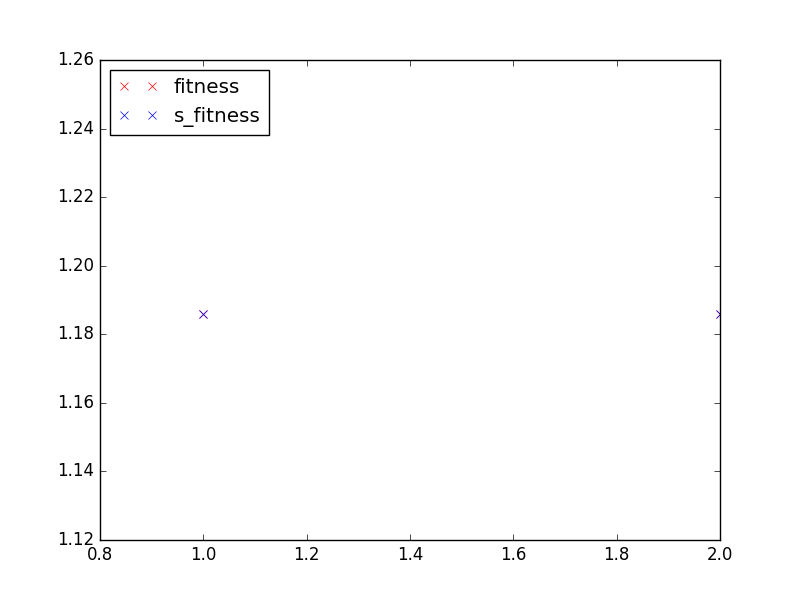
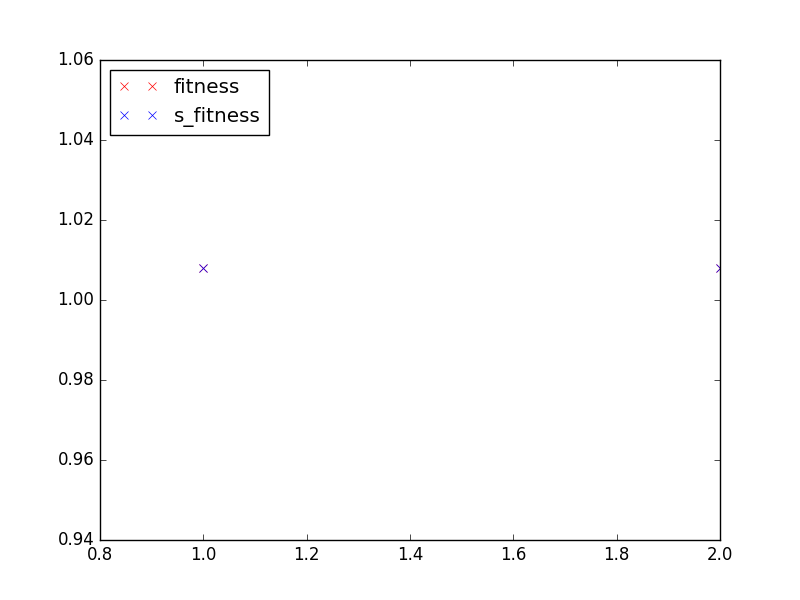
DSGA 0.1 , not tested

diff --git a/code/solution.py b/code/solution.py
@@ -7,7 +7,7 @@ import os
 import sys
 import collections
 import math
-
+import random
 
 
 
@@ -16,6 +16,9 @@ class Solution():
     name_id = 0
     _all = []
     seed_list = []
+    conserved_seed_list = []
+    top_solution_list = []
+    converged_solution_set = set()
     max_distance = 2
 
     def __init__(self):
@@ -30,6 +33,7 @@ class Solution():
         self.isSeed = False
         self.solutions_of_same_species_list = []
         self.classification_result_dict = collections.defaultdict(lambda : [])
+        # self.classification_result_list is sorted
         self.classification_result_list = []
         self.classification_result_num = 0.0
         self.decisive_feature = ''
@@ -39,11 +43,69 @@ class Solution():
         self.__class__._all.append(self)
 
     @classmethod
-    def replace_converged_seeds(cls):
-        pass
+    def update_tabu_list(cls, ga):
+        ga.tabu_list = list(set(cls.conserved_seed_list) | set(cls.top_solution_list))
+        for solution in cls._all:
+            solution.is_sf_computed = False
+
+    @classmethod
+    def find_converged_solutions(cls,ga):
+        # initailize
+        cls.converged_solution_set = set()
+        cls.top_solution_list = []
+        ##
+        converge_limit = ga.parameter_dipara_dict['DSGA']['CL']
+
+        converge_dict = collections.defaultdict(lambda :[])
+        all_solution = cls._all
+        for solution in all_solution:
+            returned_result = solution.classification_result_list
+            converge_dict[returned_result].append(solution)
+
+        for converge_list, solution_list in converge_dict.items():
+            if len(solution_list) < converge_limit:
+                logger1.debug("CONVERGE GIVE UP, TOO few solutions converged in this species: {},"
+                              "converge_limit: {}"
+                              .format(len(solution_list), converge_limit))
+                break
+
+
+            # add the top solution in every species,ready for tabu list
+            solution_list = sorted(solution_list, key=lambda x: x.fitness, reverse=True)
+            top_solution = solution_list[0]
+            cls.top_solution_list.append(top_solution)
+            for i, solution in enumerate(solution_list):
+                # skip 0, because the species best solution should be kept
+                if i!= 0:
+                    cls.converged_solution_set.add(solution)
+                    logger1.debug("#CONVERGE# Add solution to converge list, name: {}, fitness: {}"
+                                  .format(solution.name, solution.fitness))
+
+    @classmethod
+    def replace_converged_solutions(cls,ga):
+        cls.find_converged_solutions(ga)
+        solution_set_for_delete = cls.converged_solution_set - set(cls.conserved_seed_list)
+        solution_delete_num  = len(solution_set_for_delete)
+        for solution in solution_set_for_delete:
+            cls._all.remove(solution)
+            logger1.debug("#SOLUTION_REMOVE# removing solution, name: {}, fitness: {}"
+                          .format(solution.name, solution.fitness))
+        # randomly create new solutions
+        new_generation_list = []
+        for i in range(solution_delete_num):
+            _, chromosome_bits_length = ga.create_empty_chromosome_bits(ga.parameter_dict)
+            random_chromosome = [random.randint(0, 1) for p in range(chromosome_bits_length)]
+            s = Solution()
+            s.chromosome_bits = random_chromosome
+            new_generation_list.append(s)
+        ga.process_new_solutions(new_generation_list)
+
+
 
     @classmethod
     def clear_seed_list(cls):
+        # conserve seed list for replacement and updating tabu list
+        cls.conserved_seed_list = cls.seed_list
         cls.seed_list = []
 
     @classmethod

diff --git a/code/main.py b/code/main.py
@@ -17,22 +17,6 @@ from evolution import OffspringGeneration, CrossOver, Mutation
 import random
 import pprint
 
-# #======TEMP
-# # (2) translate chromosome bits list to decimal value
-# s.translate_chromosome_bits(feature_pos_dict)
-# # (3) get the classfiled result in each day
-# s.get_classification_result(input_data_dict)
-# # (4) filter the solution with limited target returns
-# input_data_num = len(input_data_dict.keys())
-# is_s_not_removed = s.filter_solution(input_data_num)
-# # (5) compute the fitness for solution
-# if is_s_not_removed:
-#     american_stock_fitness = AmericanStockFitness(parameter_dict)
-#     american_stock_fitness(input_data_dict, s)
-# top_solutions_list = sorted([(solution.name, solution.fitness) for solution in Solution._all], key = lambda x:x[1], reverse = True)[0:10]
-# print (top_solutions_list)
-# print ("Found solution num:{}".format(len(Solution._all)))
-# #TEMP END
 
 logger1.info("Genetic Algorithm Starting......")
 # (1.) read parameters
@@ -65,7 +49,7 @@ off_spring_generation = OffspringGeneration(parameter_dict)
 
 while not ga.END:
     RLC = parameter_dict['DSGA']['RLC']
-    for i in range(2):
+    for i in range(5):
         # (4.) offspring generation , return target, compute fitness
         current_solution_pool = off_spring_generation(Solution.all())
         ga.process_new_solutions(current_solution_pool)
@@ -78,7 +62,14 @@ while not ga.END:
         ga.small_generation += 1
         ga.logging(Solution,'s')
         Solution.clear_seed_list()
-    Solution.replace_converged_seeds()
+
+    # delete converged solutions and randomly create new ones, fitness computed
+    Solution.replace_converged_solutions(ga)
+    # update_tabu_list, set all is_sf_computed to False
+    Solution.update_tabu_list(ga)
+    # compute the new shared fitness for all
+    Solution.compute_shared_fitness(ga)
+    # monitor
     ga.monitor_progress(Solution)
     ga.seed_radius.add()
     ga.big_generation += 1

diff --git a/code/evolution.py b/code/evolution.py
@@ -10,6 +10,7 @@ from solution import Solution
 
 class OffspringGeneration():
     def __init__(self, parameter_dict):
+        self.parent_choose = parameter_dict['DSGA']['Parent_Choose']
         self.max_population_num = parameter_dict['SGA']['max_population_num']
         self.parent_select_mode = parameter_dict['SGA']['parent_select_mode']
         self.TS_K = parameter_dict['SGA']['TS']['TS_K']
@@ -75,7 +76,11 @@ class OffspringGeneration():
         #:::__call__
         temp_offsprings_pool = []
         population_now = len(parents_list)
-        compare_tuple_list = [(parent, parent.fitness) for parent in parents_list]
+        # using fitness to choose parent
+        if self.parent_choose == 'f':
+            compare_tuple_list = [(parent, parent.fitness) for parent in parents_list]
+        elif self.parent_choose == 's_f':
+            compare_tuple_list = [(parent, parent.shared_fitness) for parent in parents_list]
         while population_now <= self.max_population_num-2:
             compare_tuple_list_copy = compare_tuple_list.copy()
             logger1.debug("===============START PARENT SELECTION===============")

diff --git a/code/parameters/write_parameters.py b/code/parameters/write_parameters.py
@@ -67,7 +67,7 @@ para_dict['SGA']['intial_solution_number'] = 30
 para_dict['SGA']['target_return_percent'] = 75
 para_dict['SGA']['no_progress_generation'] = 10
 para_dict['SGA']['buy_sell_switch'] = 1
-para_dict['SGA']['multiple_return_switch'] = 1
+para_dict['SGA']['multiple_return_switch'] = 0
 
 #DSGA
 # mutation rate 0.5 -> 50%
@@ -80,6 +80,7 @@ para_dict['DSGA']['SD'] = 0.01
 para_dict['DSGA']['RLC'] = 1
 # convergence limit
 para_dict['DSGA']['CL'] = 5
+para_dict['DSGA']['Parent_Choose'] = 'f'
 para_dict['DSGA']['seed_max_ratio'] = 0.6
 para_dict['DSGA']['eliminate_ratio'] = 0.25
 

diff --git a/code/ga.py b/code/ga.py
@@ -168,6 +168,8 @@ class GeneticAlgorithm():
             if is_s_not_removed:
                 american_stock_fitness = AmericanStockFitness(parameter_dict)
                 american_stock_fitness(self.input_data_dict, s)
+            # (f) s_fitness fix
+            s.shared_fitness = s.fitness
 
     def process_new_solutions(self,new_generation_list):
         """Translate chromosome_bits, find targets, compute fitness"""
